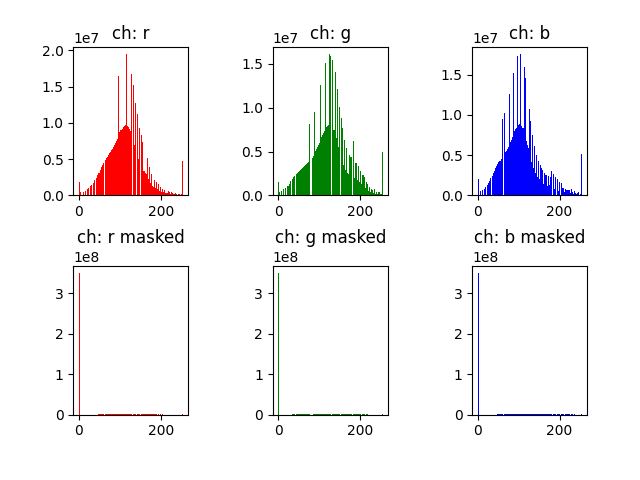
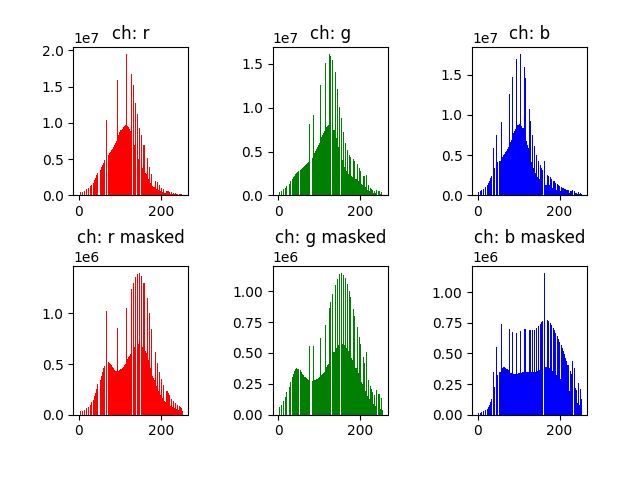
fix up histograms + batching

diff --git a/src/histograms/histograms.py b/src/histograms/histograms.py
@@ -14,7 +14,12 @@ if __name__ == '__main__':
             print(f'{i}: {folder.name}')
             sets_idx.append(i)
 
-    for data_set in sets_idx:
+    batch_size = 500
+    nbins = 100
+    bin_edges = np.linspace(0, 255, nbins + 1)
+    hist_table_total_super = np.zeros((3, nbins))
+    hist_table_masked_total_super = np.zeros((3, nbins))
+    for data_set in [15, 16]:
         # load data set
         data_set_path = data_path / list(data_path.glob('*'))[int(data_set)]
         # check if images and labels have the same length
@@ -29,13 +34,10 @@ if __name__ == '__main__':
 
 
         # load the images and labels in batches
-        batch_size = 500
-        nbins = 100
         hist_table_total = np.zeros((3, nbins))
         hist_table_masked_total = np.zeros((3, nbins))
-        print(f'Selected {data_set_path.name}, reading images and labels...')
         total_batch_len = ceil(len(img_label_pairs)/batch_size)
-        bin_edges = np.linspace(0, 255, nbins + 1)
+        print(f'Selected {data_set_path.name}, reading images and labels...')
         for batch_no, batch in enumerate(itertools.batched(img_label_pairs, batch_size)):
             images = []
             labels = []
@@ -72,9 +74,9 @@ if __name__ == '__main__':
             hist_table = np.zeros((3, nbins))
             hist_table_masked = np.zeros((3, nbins))
             for i in range(3):
-                hist_table[i], _ = np.histogram(feature_vector_table[i], bins=bin_edges)
+                hist_table[i], _ = np.histogram(feature_vector_table[i], bins=nbins, range=(1, 254))
                 hist_table_total[i] += hist_table[i]
-                hist_table_masked[i], _ = np.histogram(feature_vector_table_masked[i], bins=bin_edges)
+                hist_table_masked[i], _ = np.histogram(feature_vector_table_masked[i], bins=nbins, range=(1, 254))
                 hist_table_masked_total[i] += hist_table_masked[i]
 
             print(f'Processed images and labels in batch: {batch_no+1} out of {total_batch_len}!')
@@ -88,3 +90,17 @@ if __name__ == '__main__':
             axs[1, i].hist(bin_edges[:-1], bins=bin_edges,weights=hist_table_masked_total[i], color=col)
             axs[1, i].set_title(f'ch: {col} masked')
         plt.savefig(f'histograms_{data_set_path.name}.png')
+
+        for i in range(3):
+            hist_table_total_super[i] += hist_table_total[i]
+            hist_table_masked_total_super[i] += hist_table_masked_total[i]
+
+    # plot super histogram
+    fig, axs = plt.subplots(2, 3)
+    fig.tight_layout(pad=3.0)
+    for i, col in enumerate(('r', 'g', 'b')):
+        axs[0, i].hist(bin_edges[:-1], bins=bin_edges,weights=hist_table_total_super[i], color=col)
+        axs[0, i].set_title(f'ch: {col}')
+        axs[1, i].hist(bin_edges[:-1], bins=bin_edges,weights=hist_table_masked_total_super[i], color=col)
+        axs[1, i].set_title(f'ch: {col} masked')
+    plt.savefig(f'histograms_{data_path.name}.png')
